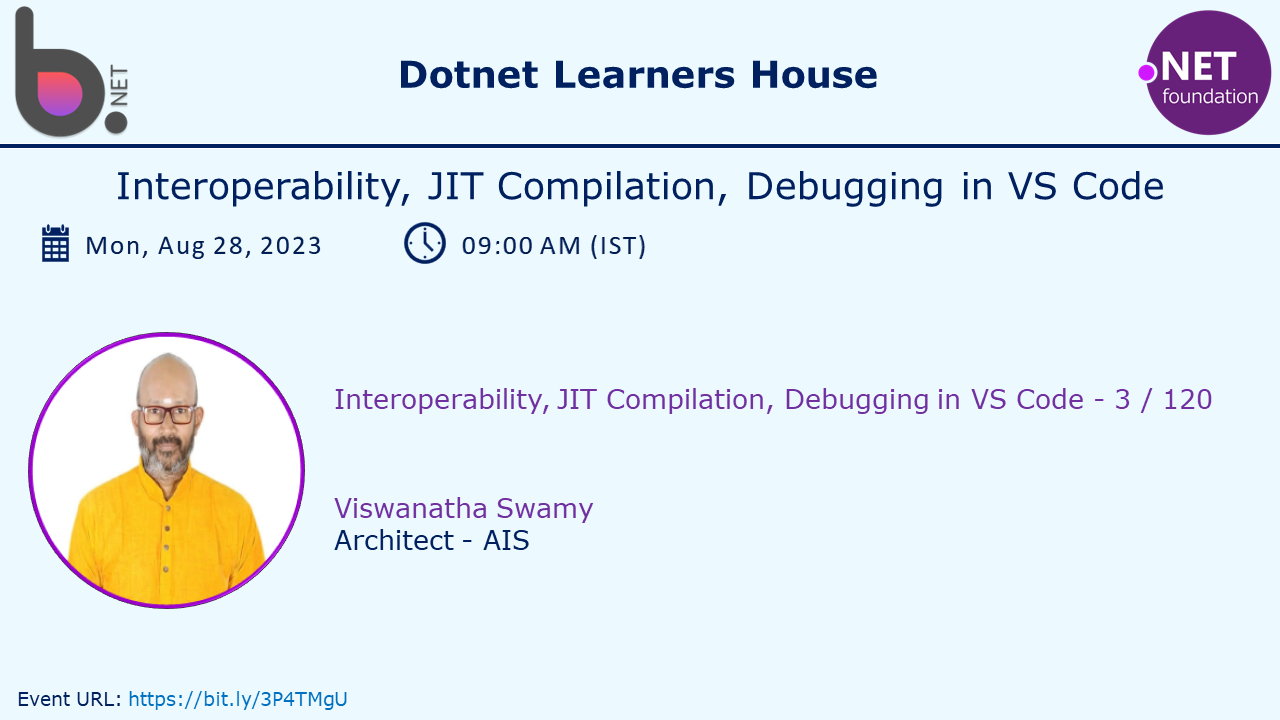
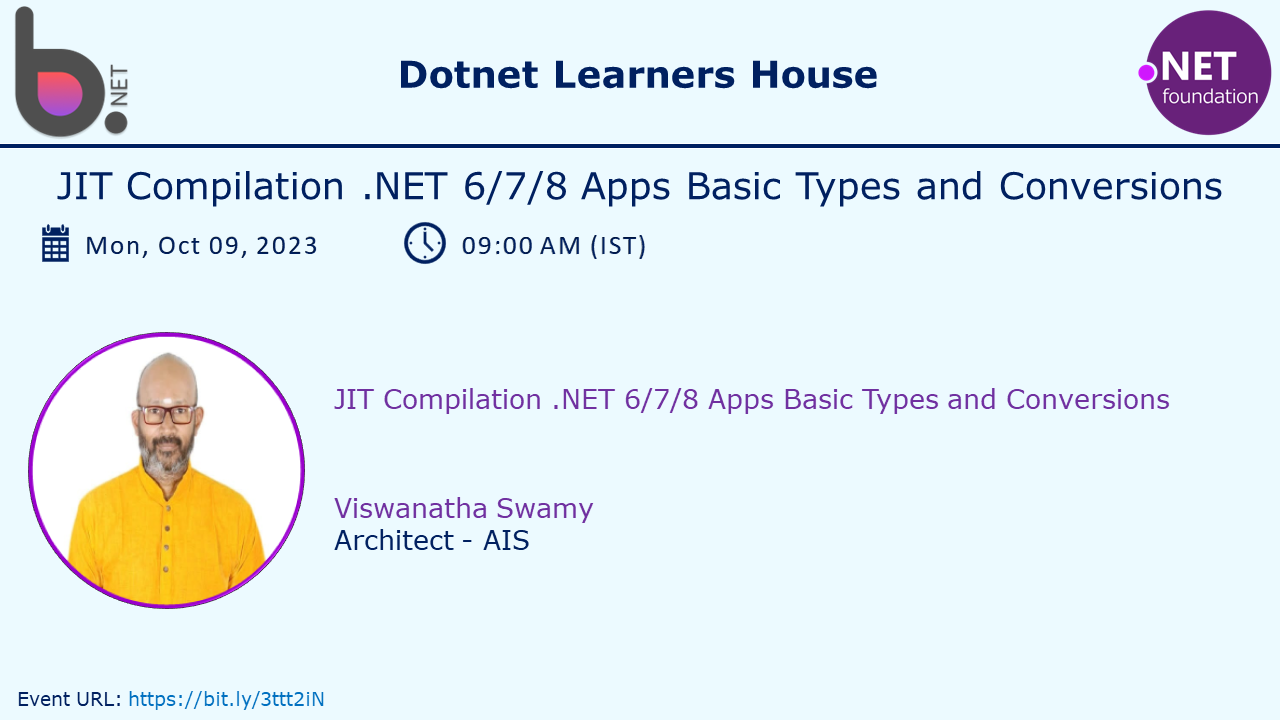
Documentation Updates

Changed region(s): [[0.0312, 0.2139, 0.9688, 0.3667], [0.25, 0.5194, 0.9375, 0.5806], [0.2188, 0.9472, 0.2812, 0.9778]]

diff --git a/documentation/S4.md b/documentation/S4.md
@@ -1,6 +1,6 @@
 # Dive into JIT Compilation, Console Apps in .NET 6/7/8, Primitive Types, and Type Conversions - Part of Microservices Series 4/120
 
-## Date: 02-Oct-2023
+## Date: 09-Oct-2023
 
 ## Event URL: [https://www.meetup.com/dot-net-learners-house-hyderabad/events/295456925/](https://www.meetup.com/dot-net-learners-house-hyderabad/events/295456925/)
 
